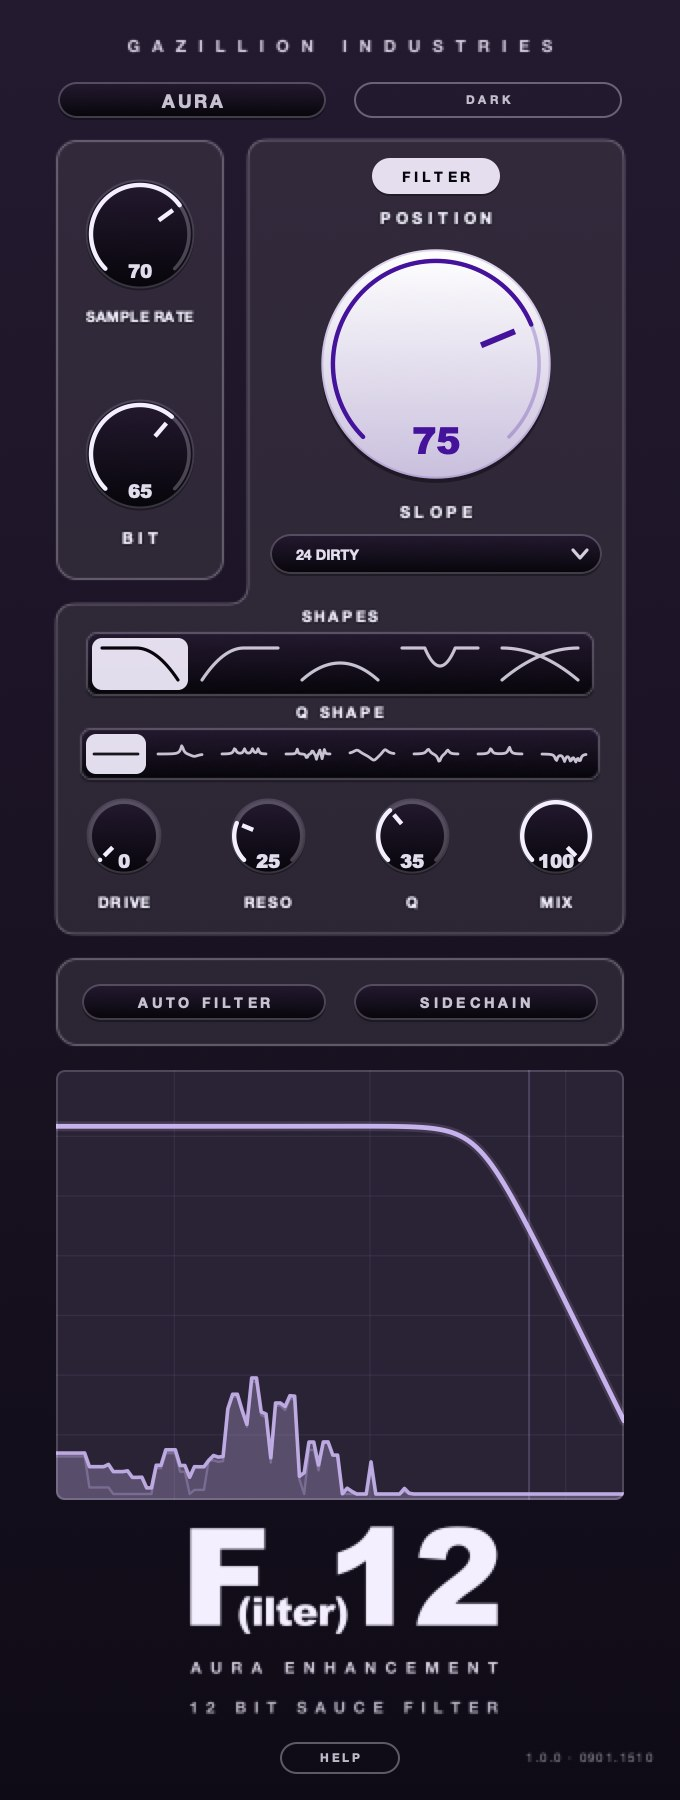
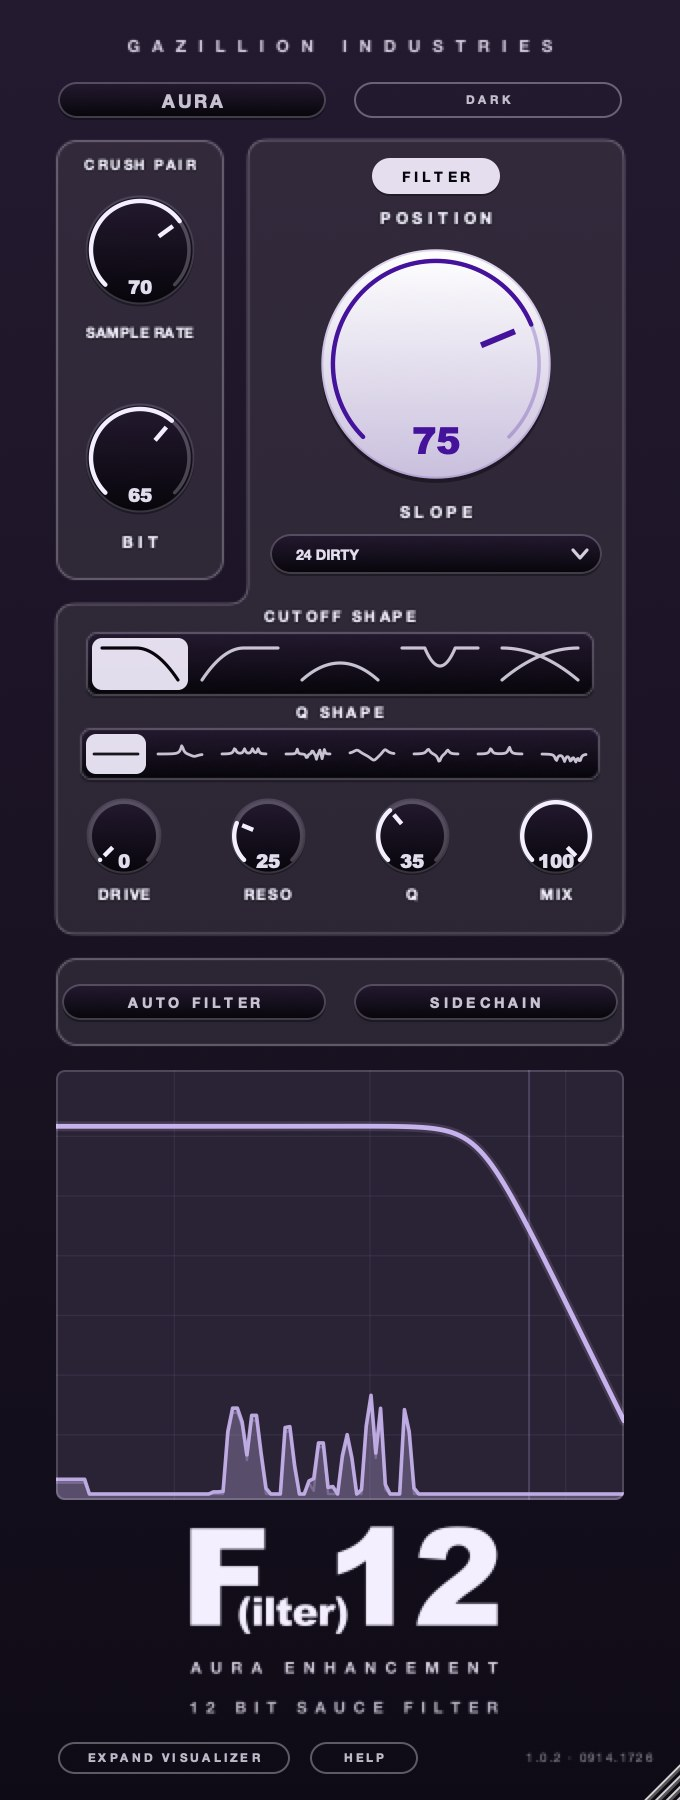
F(ilter)12 1.0.2: panel imagery, and the control reference's DRIVE and DARK entries
- f12/f12-dark.jpg, f12-light.jpg, f12-off.jpg: re-rendered from the 1.0.2 editor
  (tools/uishot with voicing/renders/src_backing.wav, same three states and knob values
  as before). The old shots predated the CRUSH PAIR and CUTOFF SHAPE labels and the
  EXPAND VISUALIZER button
- f12/og.jpg: same ground and placement, 1.0.2 panel
- f12-controls.html:
  - DRIVE pushes the filter's own saturation (1.0.2 fixed the wiring); it no longer
    reads as the crush pair's third control
  - DARK is on when the plug-in opens (1.0.2 default): spec line, defaults table and
    lead updated, and the first two plates swapped so 'On open' shows the dark panel
The control reference screenshots were compared against 1.0.2 renders and are unchanged.

diff --git a/f12-controls.html b/f12-controls.html
@@ -187,12 +187,12 @@ footer a:focus-visible{outline:2px solid var(--chalk); outline-offset:3px}
 
     <div class="plates">
       <figure>
-        <img src="/f12/manual/panel-light.jpg" width="680" height="1800" alt="The F(ilter)12 panel in its light purple theme, everything at its opening setting." loading="lazy" decoding="async">
-        <figcaption>On open &mdash; light</figcaption>
+        <img src="/f12/manual/panel-dark.jpg" width="680" height="1800" alt="The F(ilter)12 panel in its dark theme, everything at its opening setting." loading="lazy" decoding="async">
+        <figcaption>On open &mdash; dark</figcaption>
       </figure>
       <figure>
-        <img src="/f12/manual/panel-dark.jpg" width="680" height="1800" alt="The same panel in its dark theme, deep purple on near-black." loading="lazy" decoding="async">
-        <figcaption>The same, with DARK on</figcaption>
+        <img src="/f12/manual/panel-light.jpg" width="680" height="1800" alt="The same panel in its light purple theme, with DARK off." loading="lazy" decoding="async">
+        <figcaption>The same, with DARK off</figcaption>
       </figure>
       <figure>
         <img src="/f12/manual/panel-worked.jpg" width="680" height="1800" alt="The panel with sample rate, bit and filter position pulled down and a WAH resonance shape selected, the display showing a moved filter curve." loading="lazy" decoding="async">
@@ -240,8 +240,8 @@ footer a:focus-visible{outline:2px solid var(--chalk); outline-offset:3px}
     </div>
 
     <div class="ctl">
-      <div class="ctl-head"><h3>Dark</h3><p class="spec">Switch &middot; <b>off</b></p></div>
-      <p class="lead">Swaps the panel to its dark colourway. Appearance only, and it saves with the session, so a project opens the way you left it.</p>
+      <div class="ctl-head"><h3>Dark</h3><p class="spec">Switch &middot; <b>on</b></p></div>
+      <p class="lead">Swaps the panel between its dark colourway, which it opens in, and the light one. Appearance only, and it saves with the session, so a project opens the way you left it.</p>
     </div>
   </section>
 
@@ -347,12 +347,12 @@ footer a:focus-visible{outline:2px solid var(--chalk); outline-offset:3px}
         <figcaption>Drive &middot; reso &middot; q &middot; mix</figcaption>
       </figure>
       <ul class="opts">
-        <li><b>Drive</b> how hard the signal is pushed into the crush. It sets the level that lands on the quantiser's rails, and the gain comes back off afterwards, so driving it is character rather than volume. 0 to 18&thinsp;dB, opens at 0.</li>
+        <li><b>Drive</b> how hard the signal is pushed into the filter's own saturation. The gain comes back off afterwards, so driving it is character rather than volume. It works wherever the filter is running, and does nothing with FILTER off. 0 to 18&thinsp;dB, opens at 0.</li>
         <li><b>Reso</b> how hard it sings. 0 to 100&thinsp;%, opens at 25.</li>
         <li><b>Q</b> how narrow that singing is, and how tight the Q SHAPE nodes sit with it. It drives a peaking section right at the corner, so it is audible on every shape including PLAIN. 0 to 100&thinsp;%, opens at 35.</li>
         <li><b>Mix</b> how much of the whole thing you keep against what went in untouched. 0 to 100&thinsp;%, opens at 100.</li>
       </ul>
-      <p>DRIVE is the odd one out in this row. It sits with the filter knobs but it works on the crush stage, so it is the crush pair's third control in everything but position.</p>
+      <p>DRIVE belongs to the filter, not the crush. It pushes the filter's own saturation, so the crush pair stays just SAMPLE RATE and BIT.</p>
       <p>RESO and Q are the pair to learn together. A wah at low Q is a broad sweep; the same wah at high Q is a point.</p>
       <p>RESO scales the filter's whole resonance behaviour rather than setting one fixed value, so the character holds across the sweep instead of drifting as POSITION moves.</p>
     </div>
@@ -576,7 +576,7 @@ footer a:focus-visible{outline:2px solid var(--chalk); outline-offset:3px}
         <tbody>
           <tr><td>Aura</td><td>switch</td><td>On</td><td>Top row</td></tr>
           <tr><td>Max Aura</td><td>switch</td><td>Off</td><td>Top row, with AURA on</td></tr>
-          <tr><td>Dark</td><td>switch</td><td>Off</td><td>Top row</td></tr>
+          <tr><td>Dark</td><td>switch</td><td>On</td><td>Top row</td></tr>
           <tr><td>Sample Rate</td><td>0 &ndash; 100 %</td><td>100</td><td>Crush pair</td></tr>
           <tr><td>Bit</td><td>0 &ndash; 100 %</td><td>100</td><td>Crush pair</td></tr>
           <tr><td>Filter</td><td>switch</td><td>On</td><td>Filter</td></tr>
